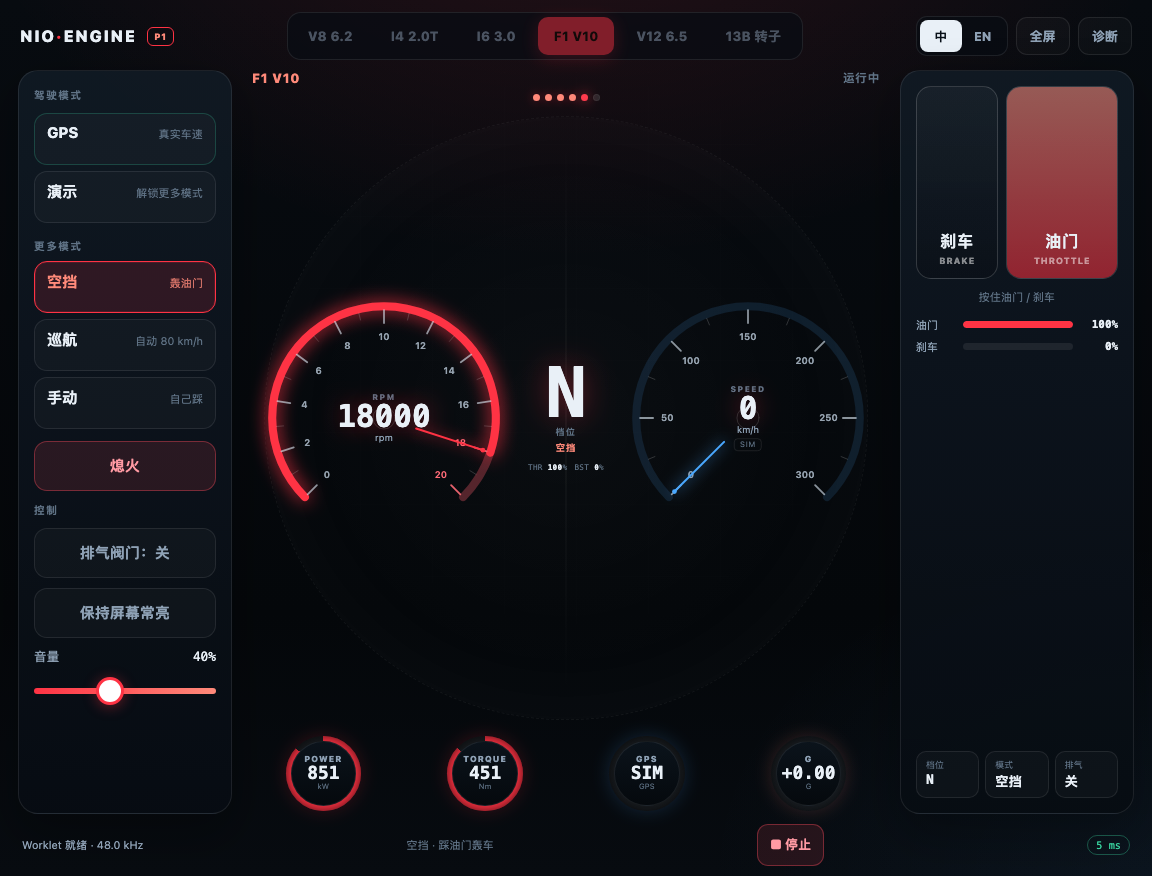
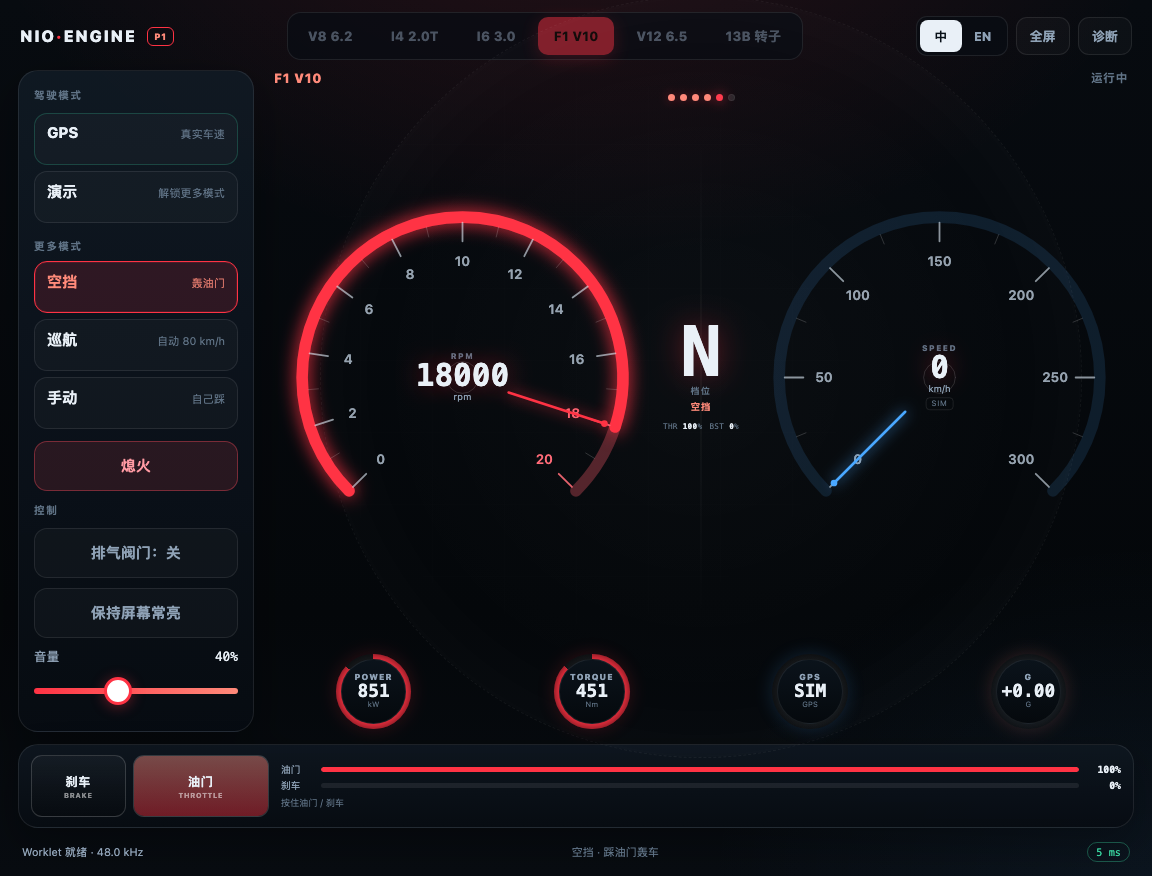
update page layout

diff --git a/p1/styles.css b/p1/styles.css
@@ -209,10 +209,13 @@ body::before {
 
 .cockpit {
   display: grid;
-  grid-template-columns: 214px minmax(0, 1fr) 234px;
-  gap: 14px;
+  grid-template-columns: 236px minmax(0, 1fr);
+  grid-template-rows: minmax(0, 1fr) auto;
+  gap: 12px 14px;
   min-height: 0;
 }
+.left-panel { grid-column: 1; grid-row: 1; }
+.cluster { grid-column: 2; grid-row: 1; }
 
 .left-panel,
 .right-panel {
@@ -388,11 +391,19 @@ body::before {
 }
 
 .gps-meta {
-  min-height: 1.4em;
+  display: flex;
+  flex-direction: column;
+  gap: 1px;
+  min-height: 2.7em;
   color: var(--dim);
   font-size: 0.62rem;
-  line-height: 1.45;
-  overflow-wrap: anywhere;
+  line-height: 1.4;
+}
+.gps-meta span {
+  display: block;
+  overflow: hidden;
+  text-overflow: ellipsis;
+  white-space: nowrap;
 }
 
 .gps-panel .badge {
@@ -1083,6 +1094,68 @@ body::before {
   white-space: nowrap;
 }
 
+/* ---------- bottom drive dock ---------- */
+
+.drive-dock {
+  display: grid;
+  grid-column: 1 / -1;
+  grid-row: 2;
+  grid-template-columns: minmax(205px, 238px) minmax(0, 1fr);
+  gap: 12px;
+  align-items: center;
+  min-width: 0;
+  min-height: 84px;
+  padding: 8px 12px;
+  border: 1px solid var(--line);
+  border-radius: var(--radius);
+  background: linear-gradient(180deg, rgba(14,22,31,.96), rgba(7,12,18,.98));
+  box-shadow: 0 14px 36px rgba(0,0,0,.24);
+}
+
+.dock-pedals {
+  display: grid;
+  grid-template-columns: 0.82fr 1.18fr;
+  gap: 7px;
+  min-width: 0;
+}
+
+.drive-dock .pedal {
+  height: 62px;
+  min-height: 62px;
+  padding: 5px 8px;
+  justify-content: center;
+  gap: 1px;
+  border-radius: 11px;
+}
+.drive-dock .pedal span { font-size: .76rem; letter-spacing: .03em; }
+.drive-dock .pedal small { font-size: .44rem; letter-spacing: .08em; }
+.drive-dock .pedal.auto::after { top: 4px; font-size: .44rem; }
+.drive-dock .pedal .fill { opacity: .42; }
+
+.dock-bars {
+  display: flex;
+  flex-direction: column;
+  justify-content: center;
+  min-width: 0;
+  gap: 3px;
+}
+.drive-dock .bars { gap: 3px; padding: 0; }
+.drive-dock .bar-row {
+  grid-template-columns: 34px minmax(0, 1fr) 36px;
+  gap: 6px;
+  font-size: .6rem;
+}
+.drive-dock .bar-row b { font-size: .61rem; }
+.drive-dock .bar { height: 5px; }
+.drive-dock .pedal-hint {
+  margin-top: 2px;
+  font-size: .56rem;
+  text-align: left;
+  white-space: nowrap;
+  overflow: hidden;
+  text-overflow: ellipsis;
+}
+
 /* ---------- bottom bar ---------- */
 
 .bottombar {
@@ -1338,15 +1411,6 @@ body::before {
   text-align: right;
 }
 
-/* ---------- floating ---------- */
-
-.panic-inline {
-  flex-shrink: 0;
-  min-height: 30px;
-  padding: 4px 12px;
-  border-radius: 8px;
-  font-size: 0.68rem;
-}
 
 .toast {
   position: fixed;
@@ -1382,7 +1446,7 @@ body::before {
 }
 
 @media (max-width: 1050px) {
-  .cockpit { grid-template-columns: 205px minmax(0, 1fr) 225px; gap: 10px; }
+  .cockpit { grid-template-columns: 214px minmax(0, 1fr); gap: 10px 12px; }
   .left-panel, .right-panel { padding: 12px; }
   #tach, #speedGauge { width: min(100%, 56vh); }
   .preset-tabs button { padding: 0 11px; }
@@ -1393,8 +1457,8 @@ body::before {
   .topbar { min-height: 40px; }
   .left-panel, .right-panel { padding: 11px; gap: 7px; }
   .mode-btn { min-height: 44px; padding: 7px 10px; }
-  .pedals { min-height: 168px; }
-  .pedal { min-height: 155px; }
+  .drive-dock { min-height: 74px; padding: 6px 10px; }
+  .drive-dock .pedal { height: 54px; min-height: 54px; }
   #tach, #speedGauge { width: min(100%, 55vh); }
   .cluster-stats > div { padding: 4px 8px; }
   .bottombar { min-height: 22px; }
@@ -1405,9 +1469,12 @@ body::before {
   .app { height: auto; min-height: 100dvh; grid-template-rows: auto auto auto; }
   .cockpit {
     grid-template-columns: 1fr;
+    grid-template-rows: auto;
     gap: 10px;
   }
-  .cluster { order: -1; }
+  .left-panel { grid-column: 1; grid-row: auto; }
+  .cluster { grid-column: 1; grid-row: auto; order: -1; }
+  .drive-dock { grid-column: 1; grid-row: auto; }
   .cluster-stats { grid-template-columns: repeat(4, minmax(0, 1fr)); }
   #tach, #speedGauge { width: min(100%, 74vw); }
   .left-panel { display: grid; grid-template-columns: 1fr 1fr; align-items: start; }
@@ -1445,6 +1512,9 @@ body::before {
   .aux-gauges { grid-template-columns: repeat(2, minmax(0, 1fr)); max-width: 260px; margin: 0 auto; }
   .mini-gauge { width: 82px; }
   .left-panel { grid-template-columns: 1fr; }
+  .drive-dock { grid-template-columns: 1fr; gap: 8px; }
+  .dock-pedals { max-width: 260px; }
+  .dock-bars { width: 100%; }
   .left-panel .section-label,
   .mode-list,
   .engine-actions,

diff --git a/p1/index.html b/p1/index.html
@@ -75,9 +75,11 @@
           <div class="gps-panel-speed">
             <strong id="gpsSpeed">—</strong>
             <small>km/h</small>
-            <span id="gpsAccuracy">—</span>
           </div>
-          <div id="gpsMeta" class="gps-meta">—</div>
+          <div id="gpsMeta" class="gps-meta">
+            <span id="gpsMetaLine1">—</span>
+            <span id="gpsMetaLine2"></span>
+          </div>
           <button id="gpsRetry" class="btn ghost small wide" type="button" data-i18n="gps.retry">重新连接 GPS</button>
         </div>
 
@@ -167,39 +169,33 @@
 
       </section>
 
-      <aside class="right-panel">
-        <div class="pedals">
-          <button id="brakePedal" class="pedal brake" type="button">
+      <section class="drive-dock" aria-label="Pedals and drive load">
+        <div class="dock-pedals">
+          <button id="brakePedal" class="pedal brake compact" type="button">
             <i class="fill"></i>
             <span data-i18n="pedal.brake">刹车</span>
             <small>BRAKE</small>
           </button>
-          <button id="throttlePedal" class="pedal throttle" type="button">
+          <button id="throttlePedal" class="pedal throttle compact" type="button">
             <i class="fill"></i>
             <span data-i18n="pedal.throttle">油门</span>
             <small>THROTTLE</small>
           </button>
         </div>
-        <div id="pedalHint" class="pedal-hint" data-i18n="pedal.hold">按住油门 / 刹车</div>
-
-        <div class="bars">
-          <div class="bar-row"><span data-i18n="dash.throttle">油门</span><div class="bar"><i id="throttleBar"></i></div><b id="throttlePct">0%</b></div>
-          <div class="bar-row"><span data-i18n="dash.brake">刹车</span><div class="bar"><i id="brakeBar"></i></div><b id="brakePct">0%</b></div>
-          <div class="bar-row" id="boostRow"><span data-i18n="dash.boost">涡轮</span><div class="bar"><i id="boostBar"></i></div><b id="boostPct">0%</b></div>
+        <div class="dock-bars">
+          <div class="bars">
+            <div class="bar-row"><span data-i18n="dash.throttle">油门</span><div class="bar"><i id="throttleBar"></i></div><b id="throttlePct">0%</b></div>
+            <div class="bar-row"><span data-i18n="dash.brake">刹车</span><div class="bar"><i id="brakeBar"></i></div><b id="brakePct">0%</b></div>
+            <div class="bar-row" id="boostRow"><span data-i18n="dash.boost">涡轮</span><div class="bar"><i id="boostBar"></i></div><b id="boostPct">0%</b></div>
+          </div>
+          <div id="pedalHint" class="pedal-hint" data-i18n="pedal.hold">按住油门 / 刹车</div>
         </div>
-
-        <div class="right-status">
-          <div><span data-i18n="dash.gear">档位</span><strong id="gearText">N</strong></div>
-          <div><span data-i18n="dash.mode">模式</span><strong id="modeText">空挡</strong></div>
-          <div><span data-i18n="dash.exhaust">排气</span><strong id="valveText">关</strong></div>
-        </div>
-      </aside>
+      </section>
     </main>
 
     <footer class="bottombar">
       <span id="audioStatus">音频未初始化</span>
       <span id="hint" class="hint" data-i18n="hint.off">点击启动发动机，开始模拟声浪</span>
-      <button id="panicBtn" class="btn small danger panic-inline" type="button" data-i18n="engine.panic" hidden>■ 停止</button>
       <span id="latencyBadge" class="badge">—</span>
     </footer>
   </div>

diff --git a/p1/app.js b/p1/app.js
@@ -1582,19 +1582,21 @@
         ? "—"
         : t("gps.accuracyValue", { accuracy: g.accuracy.toFixed(1) });
     }
-    if (els.gpsMeta) {
+    if (els.gpsMetaLine1 && els.gpsMetaLine2) {
       if (!g.lastFixAt) {
-        els.gpsMeta.textContent = g.error || t("gps.waiting");
+        els.gpsMetaLine1.textContent = g.error || t("gps.waiting");
+        els.gpsMetaLine2.textContent = "";
       } else {
         var age = performance.now() - g.lastFixAt;
         var source = g.source === "derived" ? t("gps.sourceDerived") : t("gps.sourceGps");
-        var meta = t("gps.meta", {
-          accuracy: g.accuracy === null ? "—" : t("gps.accuracyValue", { accuracy: g.accuracy.toFixed(1) }),
+        var accuracy = g.accuracy === null ? "—" : t("gps.accuracyValue", { accuracy: g.accuracy.toFixed(1) });
+        var line1 = t("gps.accuracyLine", { accuracy: accuracy });
+        if (age > GPS_STALE_MS) line1 += " · " + t("gps.ageValue", { age: (age / 1000).toFixed(1) });
+        els.gpsMetaLine1.textContent = line1;
+        els.gpsMetaLine2.textContent = t("gps.updateLine", {
           interval: g.intervalMs === null ? "—" : t("gps.intervalValue", { interval: Math.round(g.intervalMs) }),
           source: source
         });
-        if (age > GPS_STALE_MS) meta += " · " + t("gps.ageValue", { age: (age / 1000).toFixed(1) });
-        els.gpsMeta.textContent = meta;
       }
     }
     if (els.gpsRetry) els.gpsRetry.disabled = !g.supported;
@@ -2043,7 +2045,6 @@
       els.stopBtn.hidden = state.engine === "off";
       els.stopBtn.disabled = state.engine === "stopping";
     }
-    if (els.panicBtn) els.panicBtn.hidden = state.engine === "off";
 
     if (els.presetTabs) els.presetTabs.classList.toggle("locked", state.engine !== "off");
 
@@ -2440,12 +2441,12 @@
       modeUnlock: byId("modeUnlock"),
       startBtn: byId("startBtn"),
       stopBtn: byId("stopBtn"),
-      panicBtn: byId("panicBtn"),
       gpsPanel: byId("gpsPanel"),
       gpsState: byId("gpsState"),
       gpsSpeed: byId("gpsSpeed"),
-      gpsAccuracy: byId("gpsAccuracy"),
       gpsMeta: byId("gpsMeta"),
+      gpsMetaLine1: byId("gpsMetaLine1"),
+      gpsMetaLine2: byId("gpsMetaLine2"),
       gpsRetry: byId("gpsRetry"),
       gpsBadge: byId("gpsBadge"),
       speedSource: byId("speedSource"),
@@ -2512,7 +2513,6 @@
     if (els.overlayDemo) els.overlayDemo.addEventListener("click", function () { startEngine("demo"); });
     if (els.startBtn) els.startBtn.addEventListener("click", function () { startEngine("gps"); });
     if (els.stopBtn) els.stopBtn.addEventListener("click", stopEngine);
-    if (els.panicBtn) els.panicBtn.addEventListener("click", stopEngine);
 
     if (els.presetTabs) {
       els.presetTabs.addEventListener("click", function (event) {

diff --git a/p1/i18n.js b/p1/i18n.js
@@ -154,6 +154,8 @@
       "gps.sourceGps": "GPS 速度",
       "gps.sourceDerived": "推算速度",
       "gps.meta": "精度 {accuracy} · 更新 {interval} · {source}",
+      "gps.accuracyLine": "精度 {accuracy}",
+      "gps.updateLine": "更新 {interval} · {source}",
       "gps.accuracyValue": "±{accuracy} m",
       "gps.intervalValue": "{interval} ms",
       "gps.ageValue": "{age} s 前",
@@ -347,6 +349,8 @@
       "gps.sourceGps": "GPS speed",
       "gps.sourceDerived": "Derived speed",
       "gps.meta": "Accuracy {accuracy} · update {interval} · {source}",
+      "gps.accuracyLine": "Accuracy {accuracy}",
+      "gps.updateLine": "Update {interval} · {source}",
       "gps.accuracyValue": "±{accuracy} m",
       "gps.intervalValue": "{interval} ms",
       "gps.ageValue": "{age} s ago",

diff --git a/p1/README.md b/p1/README.md
@@ -21,7 +21,7 @@ npm run build:p1     # 生成 p1/dist/index.html + p1/dist/engine-worklet.js
 npm run serve:p1     # http://127.0.0.1:4174
 ```
 
-P1 版本：`0.7.0`。
+P1 版本：`0.8.1`。
 
 ### 部署
 
@@ -89,12 +89,12 @@ server {
 | 区域 | 操作 |
 |---|---|
 | 左侧模式 | 默认只有 **GPS**、**演示**；进入演示后显示 **空挡 / 巡航 / 手动** |
-| 左侧 GPS 面板 | 定位状态、真实车速、精度、更新间隔、重新连接 |
+| 左侧 GPS 面板 | 定位状态、真实车速、精度/更新信息固定两行、重新连接 |
 | 左侧控制 | 排气阀门开/关、屏幕常亮、音量 |
 | 中央 | **RPM / 速度双大表**，档位在正中间；换挡灯、四联辅助表 |
-| 右侧 | 刹车 / 油门踏板（手动 & 空挡可用），油门/刹车/涡轮条，档位/模式/排气状态 |
+| 底部踏板条 | 紧凑刹车 / 油门踏板 + 油门/刹车/涡轮柱状状态；右侧边栏和档位/模式/排气小卡已移除 |
 | 顶部 | 声浪切换（运行中锁定）、中/英、全屏、诊断 |
-| 底部 | 音频状态、模式提示、停止、上报延迟 |
+| 底部 | 音频状态、模式提示、上报延迟；底部停止按钮已移除，熄火用左侧按钮 |
 
 键盘（桌面调试）：`Space` 油门、`B` 刹车、`F` 全屏、`Esc` 停止。
 
@@ -102,7 +102,7 @@ server {
 
 ## 仪表盘
 
-- **两个大表盘**：左侧 RPM（橙）、右侧 SPEED（蓝），各自带刻度、指针、红线和数字读数。
+- **两个更大表盘**：右侧栏移除后，RPM / SPEED 双表扩到约 391 px，各自带刻度、指针、红线和数字读数。
 - **档位在正中间**：大号档位数字 + 模式 + 油门/涡轮百分比；两侧表盘围绕它对称展开。
 - **换挡灯**：双表上方的独立灯轨，接近红线时逐颗点亮，最后两颗转红。
 - **HUD 光环**：双表背后有低对比圆形光环和垂直中线，把两个表和中间档位连成一个整体。
@@ -112,6 +112,7 @@ server {
   - `GPS`：定位精度（m）+ 置信度环；
   - `G`：纵向加速度 G 值，加速为暖色、减速为蓝色。
 - **模式门控**：默认只显示 GPS / 演示；点演示后展开更多模式，并给出“已解锁”提示。
+- **底部踏板条**：刹车/油门、柱状油门/刹车/涡轮集中到底部一条；去掉右侧整栏和档位/模式/排气小卡。
 - **启动按钮**：启动页是整行橙色大按钮，熄火后的左侧启动按钮为 68 px 脉冲高亮。
 - **提示**：GPS 信号弱/丢失时，GPS 表环变色，声音按既有策略保持/淡出。
 
@@ -140,7 +141,7 @@ server {
 
 ## 音量与增益
 
-0.4.1 修正了车机上的整体音量偏小问题；0.5.0 / 0.6.0 / 0.7.0 保留该增益与软限幅：
+0.4.1 修正了车机上的整体音量偏小问题；0.5.0 / 0.6.0 / 0.7.0 / 0.8.0 / 0.8.1 保留该增益与软限幅：
 
 ```text
 Worklet → EQ → 压缩 → master（音量 × 2.2）→ 软限幅 → analyser → 扬声器

diff --git a/README.md b/README.md
@@ -2,7 +2,7 @@
 
 仓库包含四个单文件车机 Web 应用：
 
-- **P1 声浪应用（当前，0.7.0）**：默认 GPS 驱动，演示模式解锁空挡/巡航/手动；6 种发动机、RPM/速度双大表 + 中央档位 + 四联辅助表、自动换挡、涡轮/回火/限转、诊断面板。
+- **P1 声浪应用（当前，0.8.1）**：默认 GPS 驱动，演示模式解锁空挡/巡航/手动；6 种发动机、RPM/速度双大表 + 中央档位 + 四联辅助表、自动换挡、涡轮/回火/限转、诊断面板。
 - **P2.0 传感器探测（上车前）**：验证车机浏览器能否给出 GPS 速度、加速度和姿态；首轮结论是 GPS 可用、IMU 不可用。
 - **P2.2 JS Bridge 验证（上车前）**：探测车机 WebView 是否注入 JS Bridge、Android 接口或 WKWebView handler，并只读尝试获取行车数据；结果在 `/bridge/`。
 - **P0 能力探测（保留）**：先用真车验证 HTTPS、AudioWorklet、延迟、音频焦点和 10 分钟长稳；结论见 [P0 真车结果](#p0-真车结果两次)。
@@ -17,7 +17,7 @@
 - **模式**：默认 **GPS**；**演示模式**解锁空挡、巡航 80 km/h、手动踏板；演示自身是 32 秒 0→130→0 循环。
 - **驾驶**：虚拟驾驶自动变速箱；GPS 模式用真实速度 + 1 s/2 s 速度差分加速度驱动档位/负载；含换挡 cut + pop。
 - **声音**：曲轴角点火事件、双排气 bank、共振器、进气噪声、车厢 IR、压缩/限幅。
-- **车机 UI**：RPM / 速度双大表、中央大档位、POWER/TORQUE/GPS/G 四联表、橙色启动大按钮、GPS 状态面板、大触控踏板、中/英、诊断。
+- **车机 UI**：RPM / 速度双大表、中央大档位、POWER/TORQUE/GPS/G 四联表、底部紧凑踏板条、橙色启动大按钮、GPS 状态面板、中/英、诊断。
 - **响应式**：1152×876 横屏实测布局；竖屏自动堆叠。
 - **GPS 首轮结果**：P2 真车日志 2014 个样本、2 Hz、精度中位 0.68 m；没有 IMU，采用 GPS-only。
 
